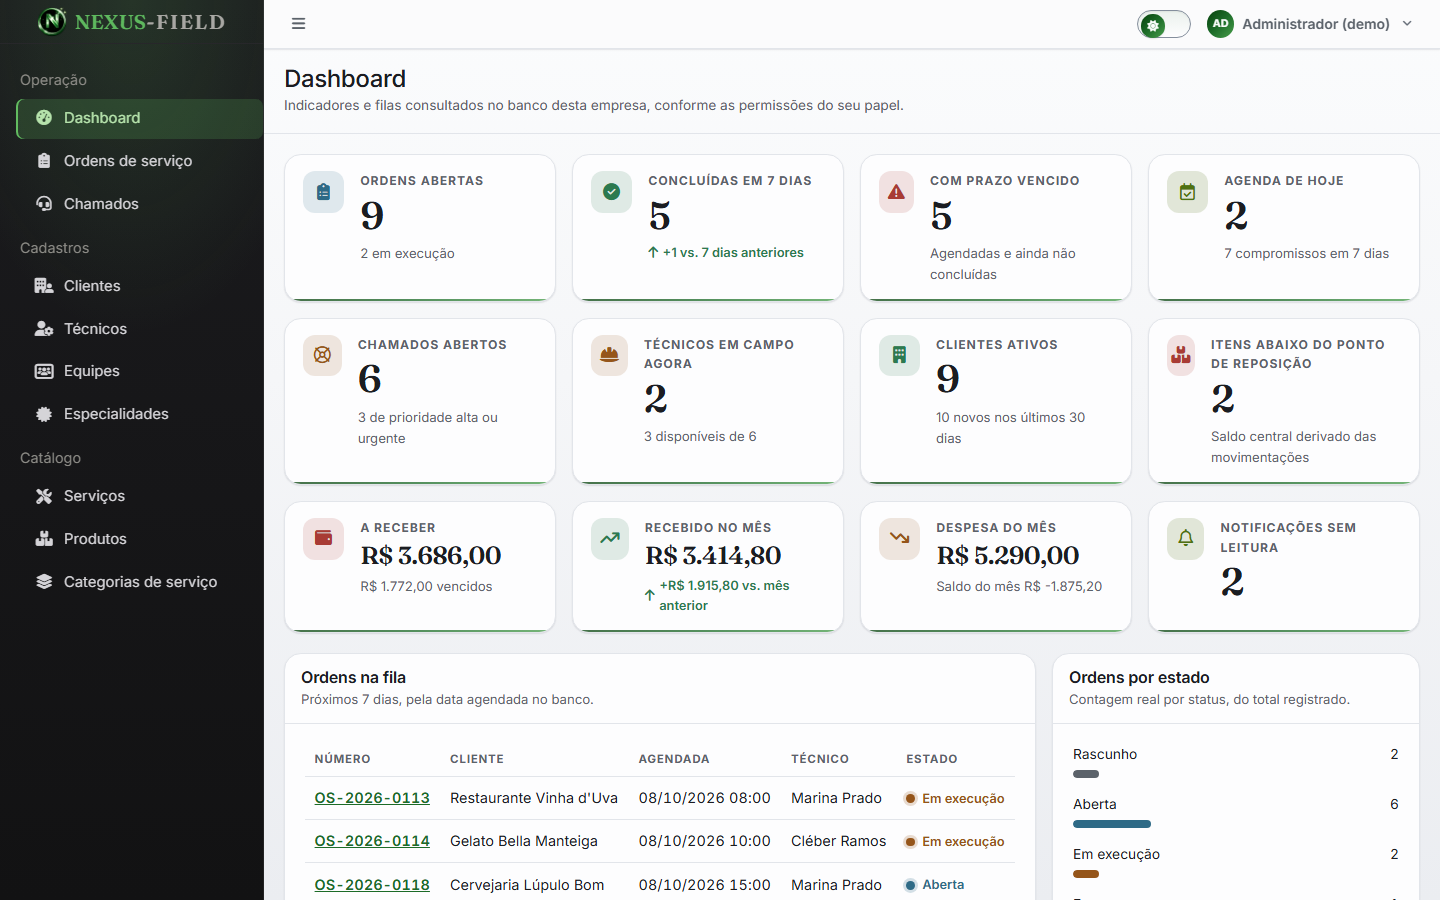
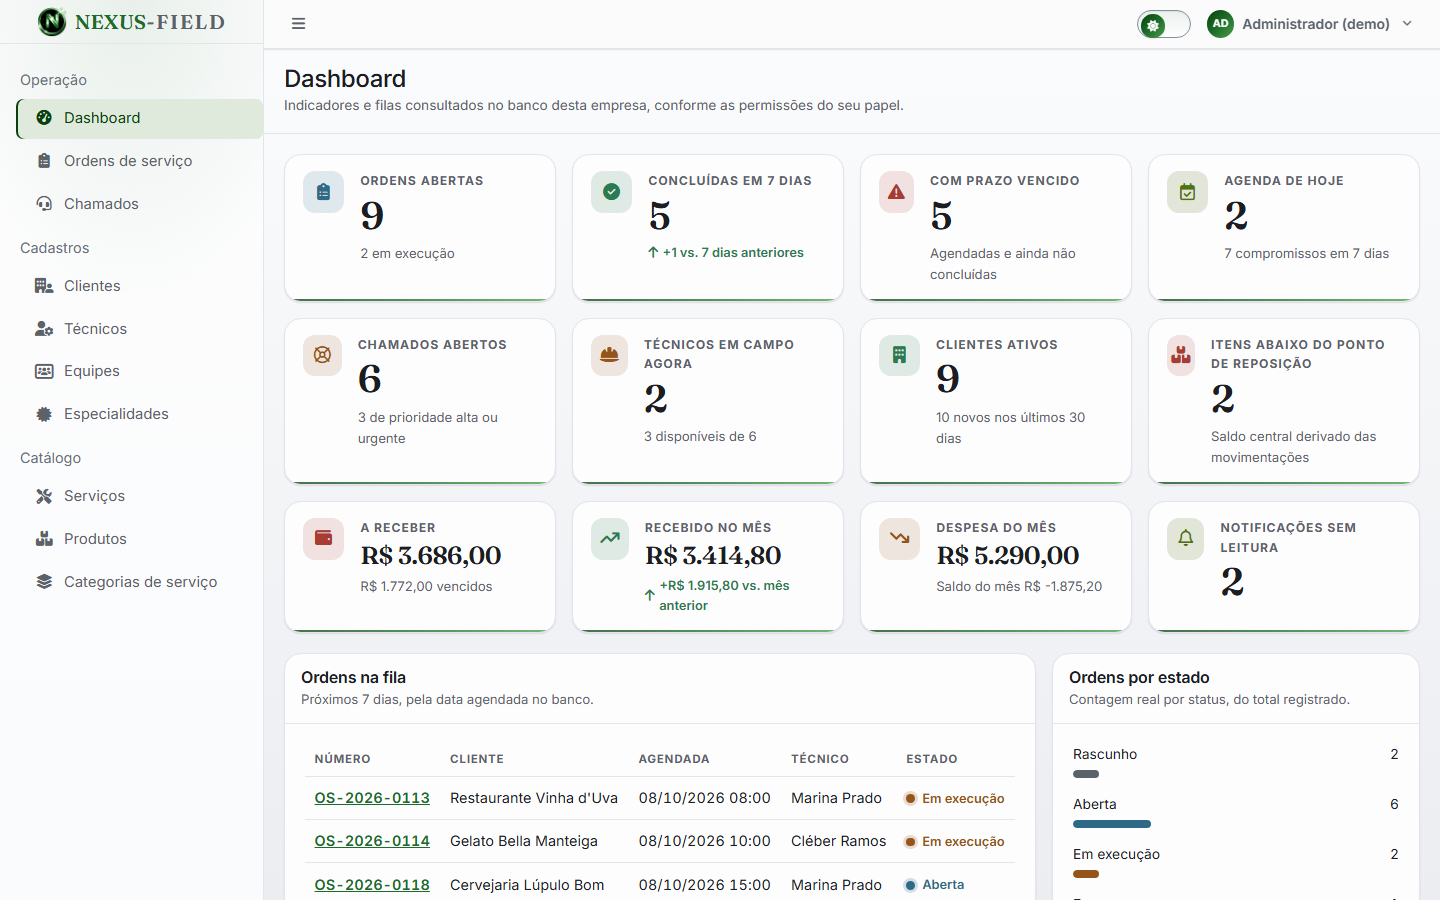
Veste o menu com o tema da página e tira a sidebar do papel de painel escuro fixo
No claro a casa se partia em duas metades que não se conheciam: conteúdo branco, menu
grafite. A culpa era de um atributo. O `<aside>` declarava o próprio
`data-bs-theme="dark"`, decisão tomada quando a sidebar foi desenhada para ser o painel
escuro da aplicação nos dois temas — e o tema claro mudou de cor desde então, sem que o
menu fosse junto. O atributo saiu do Blade e o menu passou a herdar o que o `<html>` já
decidiu, que é exatamente como o resto da interface se comporta.

A troca expôs uma coisa que estava errada fazia tempo: os `--lte-sidebar-*` que o projeto
escrevia nos blocos de tema do `<html>` não valiam nada. O AdminLTE redeclara essas
variáveis no próprio `.app-sidebar` (0,1,0), e declaração no elemento vence herança — o
valor do `<html>` era simplesmente ignorado, e só o bloco com o atributo no `<aside>`
chegava à tela. Os tokens foram para o elemento, na especificidade que realmente ganha, e
o que estava no `<html>` sem efeito saiu junto — inclusive o par de `--lte-search-field-*`,
que não tem `.sidebar-search` nem `.navbar-search` nesta interface para consumi-lo.

As tintas do menu claro agora vêm dos tokens do tema, e não de hex herdado do painel
escuro: item em `--nf-text-muted` sobre `--nf-elevated`, ativo em `--nf-brand-deep` sobre
`--nf-primary-soft`, cabeçalho de seção em `--nf-text-faint`. Os três medidos acima de
4,5:1 — 6,08, 9,5 e 5,06 — e o filete do item ativo saiu do hex solto para a mesma cor do
[…]

Changed region(s): [[0.0, 0.0, 0.1875, 1.0]]

diff --git a/resources/css/nexusfield/tokens.css b/resources/css/nexusfield/tokens.css
@@ -131,23 +131,6 @@
     --bs-light: var(--nf-elevated);
     --bs-light-rgb: 253, 253, 254;
     --bs-light-border-subtle: var(--nf-line);
-
-    /* AdminLTE 4: sidebar e campos de busca na mesma matéria-prima */
-    --lte-sidebar-color: #e8eaee;
-    --lte-sidebar-hover-color: #ffffff;
-    --lte-sidebar-hover-bg: rgba(255, 255, 255, .07);
-    --lte-sidebar-menu-active-bg: rgba(255, 255, 255, .13);
-    --lte-sidebar-menu-active-color: #ffffff;
-    --lte-sidebar-submenu-bg: transparent;
-    --lte-sidebar-submenu-color: #c8ccd3;
-    --lte-sidebar-submenu-hover-color: #ffffff;
-    --lte-sidebar-submenu-active-bg: rgba(255, 255, 255, .11);
-    --lte-sidebar-submenu-active-color: #ffffff;
-    --lte-sidebar-header-color: #a2a8b2;
-    --lte-search-field-bg: rgba(255, 255, 255, .07);
-    --lte-search-field-color: #f2f3f6;
-    --lte-search-field-border-color: rgba(242, 243, 246, .2);
-    --lte-search-field-placeholder-color: rgba(242, 243, 246, .52);
 }
 
 [data-bs-theme="dark"] {
@@ -249,22 +232,6 @@
     --bs-light: var(--nf-elevated);
     --bs-light-rgb: 21, 21, 22;
     --bs-light-border-subtle: var(--nf-line-strong);
-
-    --lte-sidebar-color: #dcdbe0;
-    --lte-sidebar-hover-color: #ffffff;
-    --lte-sidebar-hover-bg: rgba(255, 255, 255, .06);
-    --lte-sidebar-menu-active-bg: rgba(94, 184, 94, .18);
-    --lte-sidebar-menu-active-color: #a9dd9f;
-    --lte-sidebar-submenu-bg: transparent;
-    --lte-sidebar-submenu-color: #a5a49e;
-    --lte-sidebar-submenu-hover-color: #ebeae6;
-    --lte-sidebar-submenu-active-bg: rgba(94, 184, 94, .14);
-    --lte-sidebar-submenu-active-color: #a9dd9f;
-    --lte-sidebar-header-color: #8c8b86;
-    --lte-search-field-bg: rgba(255, 255, 255, .05);
-    --lte-search-field-color: #eae9e5;
-    --lte-search-field-border-color: rgba(234, 233, 229, .17);
-    --lte-search-field-placeholder-color: rgba(234, 233, 229, .48);
 }
 
 :root {
@@ -295,15 +262,34 @@
 }
 
 /*
- * A sidebar é o painel escuro da aplicação: no claro ela é grafite neutro, no
- * escuro ela encosta no preto do fundo e só o fio de borda separa as duas áreas.
+ * O menu veste o tema da página. No claro ele é a superfície elevada da casa com
+ * o verde de marca em quem está ativo; no escuro encosta no preto do fundo e só o
+ * fio de borda separa as duas áreas. Antes a sidebar era o painel escuro fixo — e
+ * no claro isso deixava a casa partida em duas metades que não se conhecem.
  *
- * O AdminLTE declara `--lte-sidebar-*` no próprio `.app-sidebar` e ainda por
- * cima com `[data-bs-theme=dark].app-sidebar` (0,2,0), então a sobrescrita
- * precisa ter a mesma especificidade do seletor que vence hoje. tokens.css
- * entra depois do CSS oficial na ordem de import, e é isso que decide.
+ * O AdminLTE declara `--lte-sidebar-*` no próprio `.app-sidebar` (0,1,0), e ainda
+ * `[data-bs-theme=dark].app-sidebar` (0,2,0). Valor posto no `<html>` não entra
+ * aqui: declaração no elemento vence herança. Por isso a sobrescrita recai sobre
+ * o mesmo elemento, na mesma especificidade, e tokens.css vem depois do CSS
+ * oficial na ordem de import — é isso que decide.
  */
-.app-sidebar[data-bs-theme="dark"] {
+.app-sidebar {
+    --lte-sidebar-color: var(--nf-text-muted);
+    --lte-sidebar-hover-color: var(--nf-text);
+    --lte-sidebar-hover-bg: rgba(27, 29, 33, .05);
+    --lte-sidebar-active-color: var(--nf-text);
+    --lte-sidebar-menu-active-bg: var(--nf-primary-soft);
+    --lte-sidebar-menu-active-color: var(--nf-brand-deep);
+    --lte-sidebar-submenu-bg: transparent;
+    --lte-sidebar-submenu-color: var(--nf-text-muted);
+    --lte-sidebar-submenu-hover-color: var(--nf-text);
+    --lte-sidebar-submenu-hover-bg: rgba(27, 29, 33, .05);
+    --lte-sidebar-submenu-active-color: var(--nf-brand-deep);
+    --lte-sidebar-submenu-active-bg: var(--nf-primary-soft);
+    --lte-sidebar-header-color: var(--nf-text-faint);
+}
+
+[data-bs-theme="dark"] .app-sidebar {
     --lte-sidebar-color: #d5d4d8;
     --lte-sidebar-hover-color: #ffffff;
     --lte-sidebar-hover-bg: rgba(255, 255, 255, .07);

diff --git a/resources/css/nexusfield/components.css b/resources/css/nexusfield/components.css
@@ -155,15 +155,17 @@
 }
 
 /*
- * A sidebar declara o próprio `data-bs-theme="dark"` para manter o painel escuro nos
- * dois temas, então o fundo não pode vir dos tokens de tema do `<html>` — dentro dela
- * eles já estariam resolvidos como escuro. O gradiente é preso pelo tema da página.
+ * O menu é a superfície da casa, não um painel escuro fixo: no claro ele é o
+ * elevado do tema com o halo de marca no topo e o fio de borda na emenda, no
+ * escuro ele desce até o preto e continua separado pelo mesmo fio. Os tokens de
+ * tinta de cada tema moram em tokens.css, porque o AdminLTE os declara no próprio
+ * elemento.
  */
 .app-sidebar {
     background:
-        radial-gradient(120% 60% at 50% 0%, color-mix(in srgb, var(--nf-primary) 16%, transparent) 0%, transparent 62%),
-        linear-gradient(180deg, #1b1b1e 0%, #121213 100%);
-    border-right: 1px solid rgba(255, 255, 255, .07);
+        radial-gradient(120% 55% at 50% 0%, color-mix(in srgb, var(--nf-primary) 9%, transparent) 0%, transparent 62%),
+        linear-gradient(180deg, var(--nf-elevated) 0%, var(--nf-surface) 100%);
+    border-right: 1px solid var(--nf-line);
 }
 
 [data-bs-theme="dark"] .app-sidebar {
@@ -182,7 +184,7 @@
 }
 
 .app-sidebar .sidebar-menu .nav-link.active {
-    box-shadow: inset 2px 0 0 var(--nf-brand-vivid);
+    box-shadow: inset 2px 0 0 var(--lte-sidebar-menu-active-color);
 }
 
 .app-content-header {

diff --git a/tests/Unit/PaletteTest.php b/tests/Unit/PaletteTest.php
@@ -150,6 +150,49 @@ class PaletteTest extends TestCase
         }
     }
 
+    /**
+     * O menu veste o tema da página. No claro ele é a superfície elevada da casa,
+     * então a tinta do item precisa vir dos tokens do tema — e não de um hex claro
+     * herdado do painel escuro que a sidebar já foi.
+     */
+    public function test_o_menu_do_tema_claro_le_no_painel_claro_com_contraste_minimo(): void
+    {
+        $claro = $this->tokens($this->bloco(':root,'."\n".'[data-bs-theme="light"]'));
+        $menu = $this->tokens($this->blocoDeLinha('.app-sidebar'));
+
+        $estaNoMenu = ['--lte-sidebar-color', '--lte-sidebar-menu-active-color', '--lte-sidebar-header-color'];
+
+        foreach ($estaNoMenu as $token) {
+            $this->assertArrayHasKey($token, $menu, "{$token} sumiu do bloco .app-sidebar");
+            $this->assertMatchesRegularExpression(
+                '/^var\(--nf-[a-z-]+\)$/',
+                $menu[$token],
+                "o item {$token} do menu claro voltou a ter hex próprio em vez de token do tema"
+            );
+        }
+
+        $tinta = fn (string $token): string => $claro[substr($menu[$token], 4, -1)];
+
+        $pares = [
+            '--lte-sidebar-color' => $claro['--nf-elevated'],
+            '--lte-sidebar-header-color' => $claro['--nf-elevated'],
+            '--lte-sidebar-menu-active-color' => $claro['--nf-primary-soft'],
+        ];
+
+        foreach ($pares as $token => $fundo) {
+            $razao = $this->contraste($tinta($token), $fundo);
+            $this->assertGreaterThanOrEqual(
+                4.5,
+                $razao,
+                sprintf('menu claro: %s sobre %s rende %.2f:1', $token, $fundo, $razao)
+            );
+        }
+
+        // O escuro continua com a tinta própria do painel preto, medida à parte.
+        $escuro = $this->tokens($this->blocoDeLinha('[data-bs-theme="dark"] .app-sidebar'));
+        $this->assertArrayHasKey('--lte-sidebar-color', $escuro, 'o menu escuro perdeu a própria tinta');
+    }
+
     private function bloco(string $seletor): string
     {
         $inicio = strpos($this->css, $seletor);
@@ -159,6 +202,23 @@ class PaletteTest extends TestCase
         $this->assertNotFalse($fim);
 
         return substr($this->css, $inicio, $fim - $inicio);
+    }
+
+    /**
+     * Bloco cujo seletor abre a linha — é assim que se pega `.app-sidebar` sem
+     * cair no texto de um comentário que cite a mesma classe.
+     */
+    private function blocoDeLinha(string $seletor): string
+    {
+        $localizado = preg_match(
+            '/^'.preg_quote($seletor, '/').'\s*\{\n(.*?)^\}/ms',
+            $this->css,
+            $casos,
+        );
+
+        $this->assertSame(1, $localizado, "bloco {$seletor} não existe em tokens.css");
+
+        return $casos[1];
     }
 
     /** @return array<string, string> */

diff --git a/resources/views/components/app/sidebar.blade.php b/resources/views/components/app/sidebar.blade.php
@@ -1,13 +1,15 @@
 {{-- Sidebar no contrato do AdminLTE 4: .app-sidebar > .sidebar-brand +
      .sidebar-wrapper > .sidebar-menu[data-lte-toggle="treeview"]. O estado
-     (recolhida/aberta) vive no <body>, quem muda é o botão do navbar. --}}
+     (recolhida/aberta) vive no <body>, quem muda é o botão do navbar. O tema é o
+     da página: sem `data-bs-theme` próprio ela herda do <html>, e é isso que faz o
+     menu claro no dia claro e preto na noite de preto. --}}
 @props(['user'])
 
 @php
     $secoes = \App\Support\Navigation::for($user);
 @endphp
 
-<aside class="app-sidebar" data-bs-theme="dark">
+<aside class="app-sidebar">
     <div class="sidebar-brand">
         <a class="brand-link" href="{{ route('welcome') }}" aria-label="NEXUS-FIELD, página inicial">
             <x-ui.brand-mark />

diff --git a/tests/Feature/AuthenticatedLayoutTest.php b/tests/Feature/AuthenticatedLayoutTest.php
@@ -155,7 +155,10 @@ class AuthenticatedLayoutTest extends TestCase
             ->assertSee('Ir para a navegação', false)
             ->assertDontSee('Skip to main content', false)
             ->assertSee('data-lte-toggle="sidebar"', false)
-            ->assertSee('data-lte-toggle="treeview"', false);
+            ->assertSee('data-lte-toggle="treeview"', false)
+            // O menu não declara tema próprio: ele herda o `data-bs-theme` do <html>,
+            // e é isso que o mantém claro no dia claro.
+            ->assertSee('<aside class="app-sidebar">', false);
     }
 
     /**

diff --git a/README.md b/README.md
@@ -18,7 +18,7 @@
   <img src="https://img.shields.io/badge/AdminLTE-4.10-343a40?logo=laravel&logoColor=white" alt="AdminLTE 4.10">
   <img src="https://img.shields.io/badge/Bootstrap-5.3-7952B3?logo=bootstrap&logoColor=white" alt="Bootstrap 5.3">
   <img src="https://img.shields.io/badge/Vite-8-646CFF?logo=vite&logoColor=white" alt="Vite 8">
-  <img src="https://img.shields.io/badge/testes-150%20testes%20%2F%201386%20asser%C3%A7%C3%B5es-brightgreen" alt="150 testes, 1386 asserções">
+  <img src="https://img.shields.io/badge/testes-151%20testes%20%2F%201411%20asser%C3%A7%C3%B5es-brightgreen" alt="151 testes, 1411 asserções">
 </p>
 
 <p align="center">
@@ -208,6 +208,8 @@ São as telas e regras que existem hoje no repositório. O que ainda não está 
 - Topo e pé enxutos: 44px de altura no cabeçalho (a mesma nos dois lados da aplicação) e uma linha no
   rodapé das telas abertas
 - Tema claro/escuro persistido em `localStorage` e em cookie, aplicado antes da primeira pintura
+- O menu veste o tema da página: no claro ele é a superfície elevada com o verde de marca em quem está
+  ativo, no escuro encosta no preto e só o fio de borda separa as duas áreas
 - Marca nos navegadores: `favicon.ico` com 16 e 32 embutidos, PNGs de 32 e 192 e `apple-touch-icon`
   achatado sobre preto, todos gerados do medalhão oficial
 - Auto nível nas telas abertas: a logo do hero balança em amplitude decrescente e para nivelada, com o
@@ -526,12 +528,13 @@ Depois:
 php artisan test
 ```
 
-Hoje são **150 testes / 1386 asserções**, cobrindo login válido e inválido, usuário inativo, assinatura
+Hoje são **151 testes / 1411 asserções**, cobrindo login válido e inválido, usuário inativo, assinatura
 vencida, throttle, troca de ID de sessão, logout, gate de permissão por papel, reset de senha com
 token válido/forgiado/fraco, isolamento entre tenants, as três telas abertas de acesso, o contrato
 do seletor de tema entre Blade e JavaScript, a paleta dos dois temas calculada até o contraste WCAG
-e a marca verde medida do medalhão, o contrato das seis capturas deste README (existem, estão
-linkadas e medem 1440×900), a proibição dos diálogos nativos do navegador, o CRUD de clientes com
+—inclusive a tinta do menu sobre o painel claro— e a marca verde medida do medalhão, o contrato das
+seis capturas deste README (existem, estão linkadas e medem 1440×900), a proibição dos diálogos
+nativos do navegador, o CRUD de clientes com
 contatos e endereços, o de técnicos, equipes e especialidades, o do catálogo — inclusive o saldo
 central somado das movimentações, a unidade fora do catálogo recusada e a exclusão vetada quando já
 existe histórico — e o de ordens de serviço: sequência anual por empresa, estado que só anda pelo fluxo

diff --git a/CHANGELOG.md b/CHANGELOG.md
@@ -751,6 +751,23 @@ Padrão de versões: esta reconstrução parte do zero, então o baseline é `0.
 - `pint --test` nos arquivos da fase: `DemoSeeder` carregava dois imports sem uso e docblocks com
   `\Carbon\Carbon` onde a classe já estava importada; `TicketsTest` tinha um import fora de ordem.
   Rodados e conferidos depois, com a suíte ainda verde.
+- Menu do tema claro pintado de painel escuro: a sidebar declarava o próprio
+  `data-bs-theme="dark"` no Blade, então no dia claro a casa se partia em duas metades que não se
+  conhecem — conteúdo branco, menu grafite. O atributo saiu do `<aside>` e o menu passou a herdar o
+  tema do `<html>`. Os `--lte-sidebar-*` do claro agora apontam para tokens do tema (tinta
+  `--nf-text-muted` sobre `--nf-elevated`, item ativo `--nf-brand-deep` sobre `--nf-primary-soft`,
+  cabeçalho de seção `--nf-text-faint`), todos medidos acima de 4,5:1, e o filete de item ativo saiu
+  do hex solto para a mesma cor do rótulo ativo. O escuro ficou como estava, tinta por tinta.
+- Tokens de sidebar e de campo de busca declarados no `<html>` não produziam efeito nenhum: o
+  AdminLTE redeclara `--lte-sidebar-*` no próprio `.app-sidebar` (0,1,0), e declaração no elemento
+  vence herança. Os valores mortos saíram dos blocos de tema e a sobrescrita foi para o elemento, na
+  especificidade que realmente ganha; `.sidebar-search`/`.navbar-search` não existem nesta interface,
+  e os `--lte-search-field-*` que só existiam no papel foram apagados junto.
+- As duas capturas de painel do `README.md` refeitas contra o aplicativo rodando, no quadro
+  1440×900 de sempre: a do tema claro ilustraria um menu que a aplicação não desenha mais. A conta de
+  demonstração entrou com a senha emprestada do ambiente e o hash original dela voltou ao banco
+  byte a byte depois da foto — a troca de credenciais da raiz continua sem efeito nas contas demo até
+  alguém rodar `db:seed --class=DemoSeeder`.
 
 ### Removido
 
